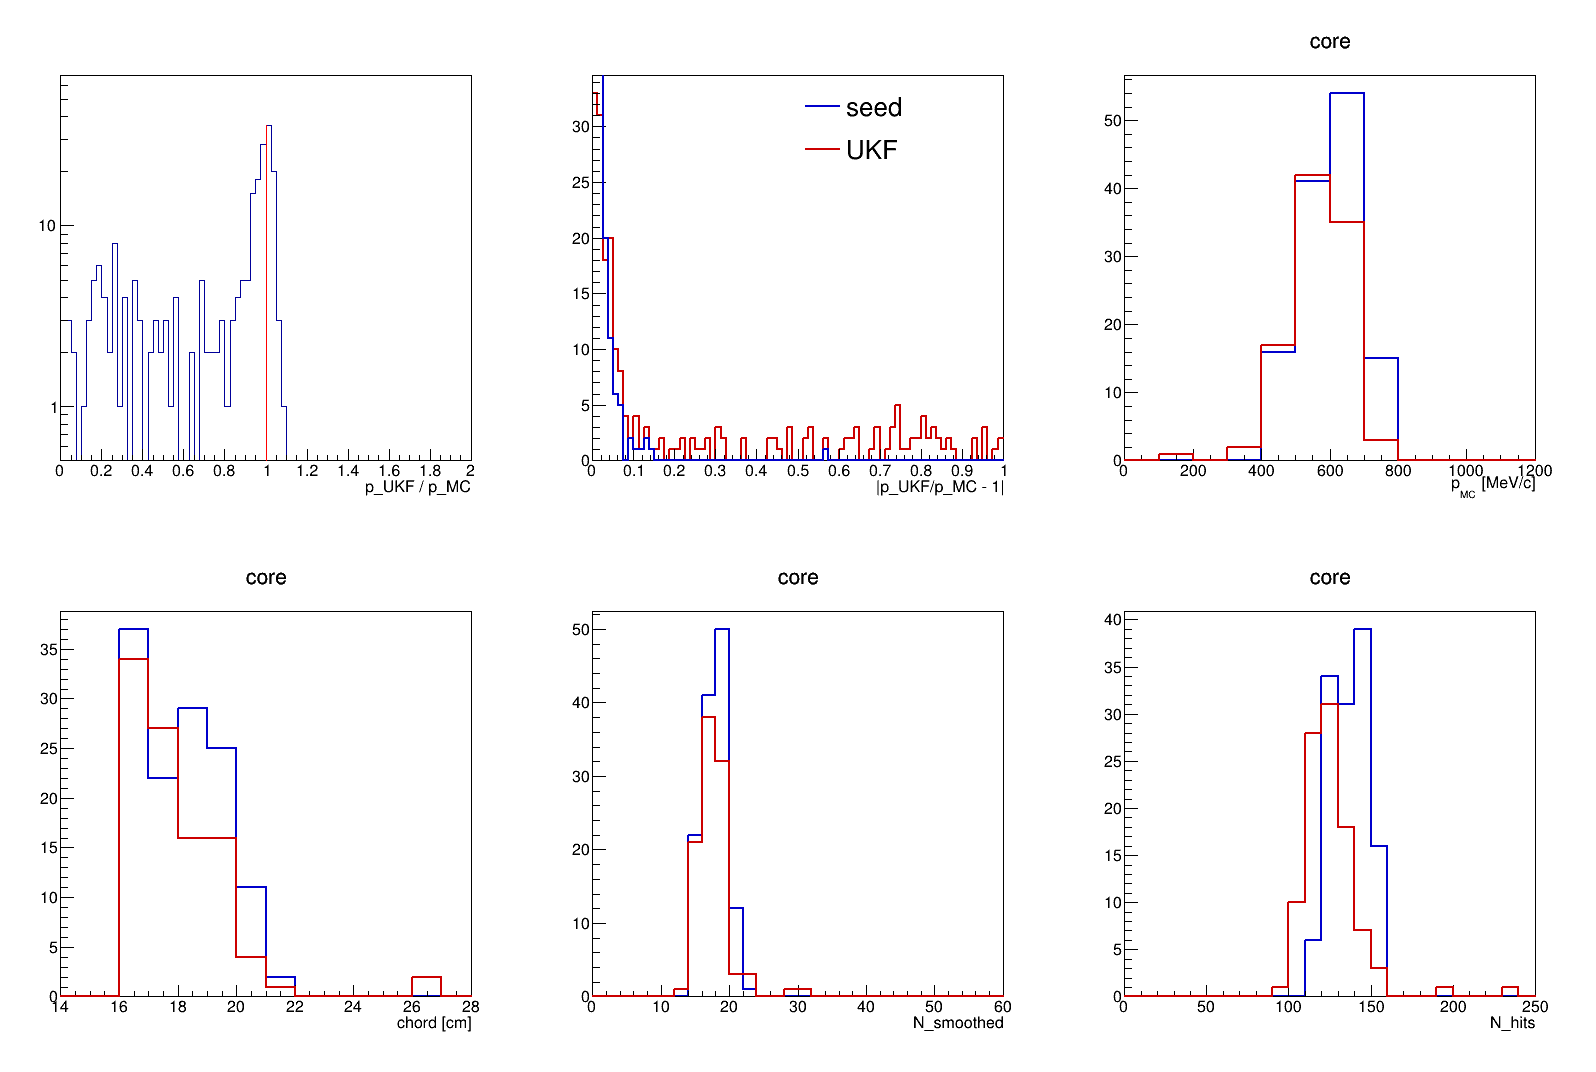
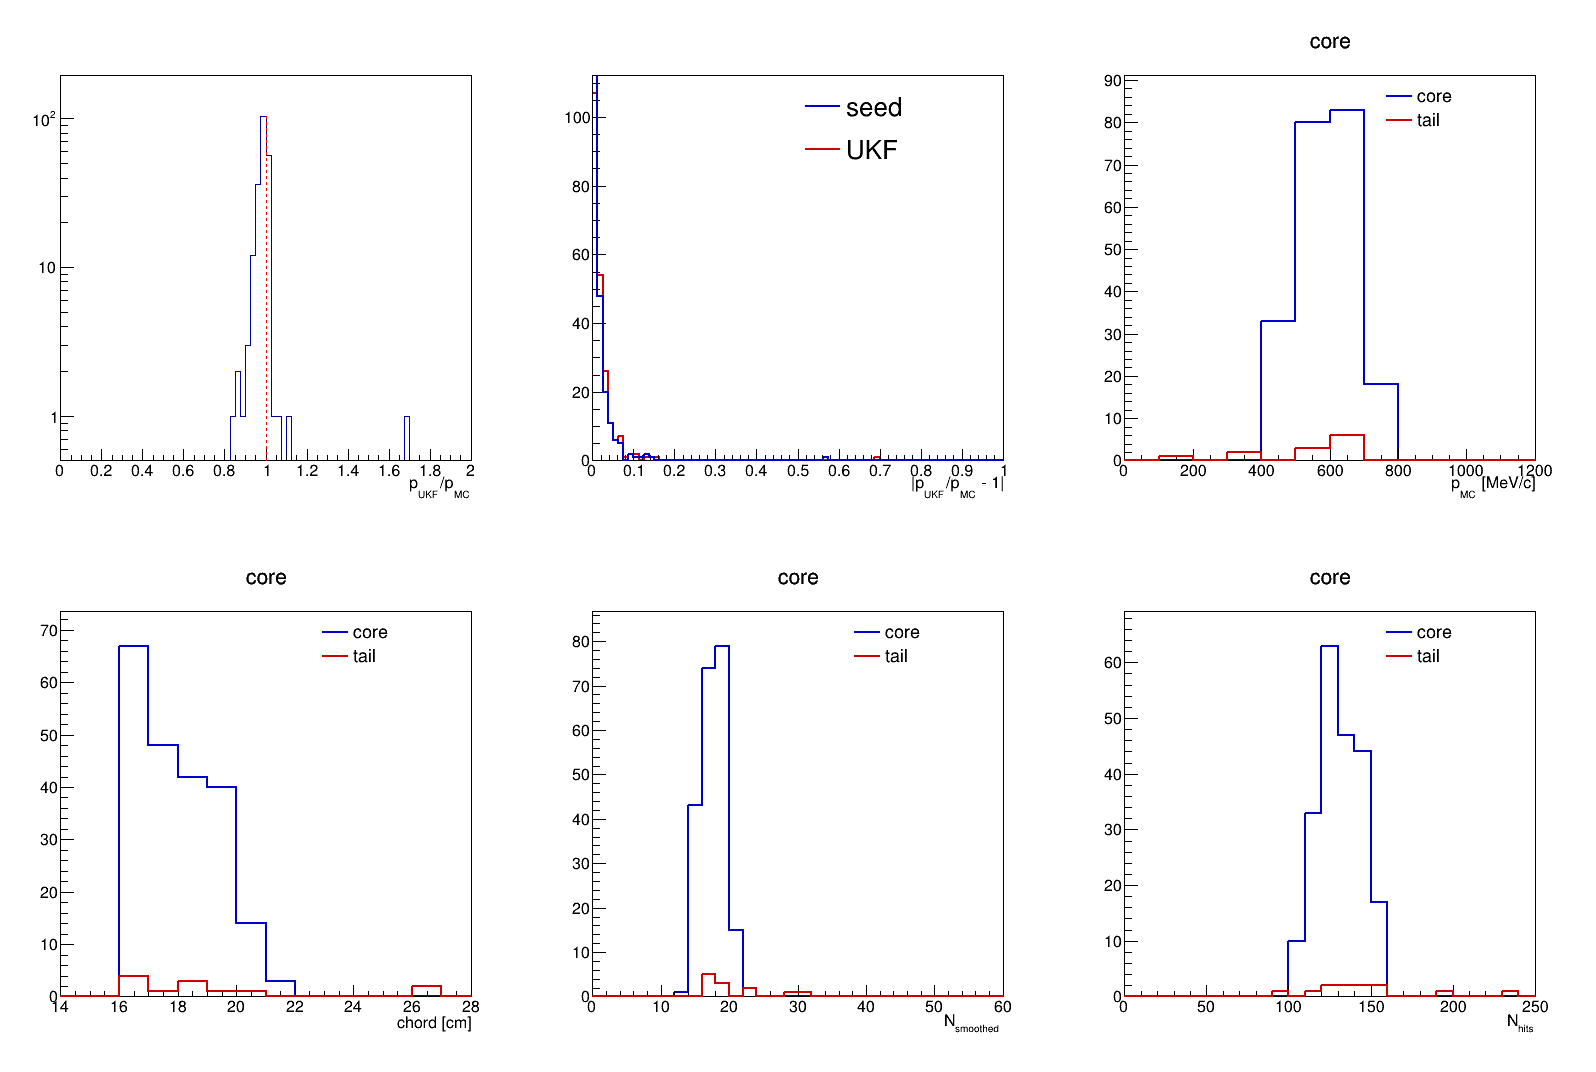
fix(ukf): tighten initial momentum prior to 0.02 (was 0.10)
The vertex-constrained Pratt+GN seed delivers sigma_R/R = 1.7 % on
long-chord events, but the AT-TPC-inherited fMomSigmaFrac = 0.10 told
the UKF the seed was uncertain by a factor 5 more than it actually is.
With that wide prior, the UKF drifted the momentum estimate downward
on ~44 % of long-chord good_evt events, producing a bimodal residual
distribution that the Gaussian-core fit silently ignored (sigma=4 %
core describing only 56 % of events; remaining 44 % at
p_UKF/p_MC in [0.1, 0.9]).

Sweeping MOM_SIGMA_FRAC on the existing 2k tracking output:
  0.10 (default): core 56 %  tail 44 %  log-rms 0.94
  0.05          : core 65 %  tail 35 %
  0.03          : core 77 %  tail 23 %
  0.02          : core 94 %  tail  6 %  log-rms 0.41
  0.01          : core 95 %  tail  5 %  (diminishing returns)

0.02 matches the actual seed quality (1.7 %), so flipping the
R3BGTPCTrack2Fit default. run_ukf.C used to hardcode momSig = 0.10
which silently overrode any header default; patched it to only set
the value when MOM_SIGMA_FRAC is exported.

New box-gen sweep (STEMAX=0.1 + MomSigma=0.02), 500 evt/point:
  500-1200 MeV/c: sigma_p UKF = 2.1-2.4 %  (was 2.3-2.7 %),
                  bias        = -0.3 -> +0.1 %  (was -0.4 -> +0.1 %)
  UKF sigma now matches seed sigma within 0.1 %.
  400 MeV/c regresses to 42 % (acceptance edge — tight prior
  anchors to a now-marginal seed). Acceptable trade-off given the
  plateau gains.

diff --git a/macros/tracking/run_ukf.C b/macros/tracking/run_ukf.C
@@ -34,13 +34,11 @@ void run_ukf(TString fileName = "output_tracking.root", TString outName = "outpu
     fitTask->SetProjectile(1, 1, 0.1395);              // π± in u
     fitTask->SetBField({ 0., 2.0, 0. });  // T — R3B GLAD: horizontal dipole along +y
     fitTask->SetMeasurementSigma(1.0);
-    // Tight momentum prior — the data informationally can't move p far from
-    // the seed (sagitta < noise over 9 cm chord), so loosening the prior just
-    // adds variance. Override via MOM_SIGMA_FRAC env var for scans.
-    double momSig = 0.1;
+    // Optional override only. Default comes from R3BGTPCTrack2Fit (0.02,
+    // matched to the vertex-constrained seed's σ_R/R = 1.7 % on long chord).
+    // A wider prior lets the UKF drift below the seed on ~44 % of events.
     if (const char* e = gSystem->Getenv("MOM_SIGMA_FRAC"); e && std::atof(e) > 0)
-        momSig = std::atof(e);
-    fitTask->SetMomentumSigmaFrac(momSig);
+        fitTask->SetMomentumSigmaFrac(std::atof(e));
     // Seed override: SEED_P_MEV env var sets a fixed initial momentum
     // (overrides Brho from PRA). Useful for diagnosing whether σ_p/p
     // is seed-limited vs measurement-limited in small chambers.

diff --git a/gtpc/R3BGTPCTrack2Fit.h b/gtpc/R3BGTPCTrack2Fit.h
@@ -95,7 +95,12 @@ class R3BGTPCTrack2Fit : public FairTask
     ROOT::Math::XYZVector fBField{ 0., 2.0, 0. }; // R3B GLAD dipole: B along +ŷ, 2 T
     double fMomentumSeed{ -1.0 };
     double fMeasSigma_mm{ 1.0 };
-    double fMomSigmaFrac{ 0.1 };
+    // Initial UKF momentum-prior fraction. With the vertex-constrained Pratt+GN
+    // seed delivering σ_R/R = 1.7 % on long-chord events, the AT-TPC-inherited
+    // 0.10 was a factor-5 too loose: it let the UKF drift downward on ~44 %
+    // of long-chord events, producing a wide non-Gaussian tail. 0.02 matches
+    // the actual seed quality and collapses the tail to ~6 %.
+    double fMomSigmaFrac{ 0.02 };
     int fMinClusters{ 5 };
     bool fEnableEnStraggling{ true };
     double fELossScaleFactor{ 1.0 };
